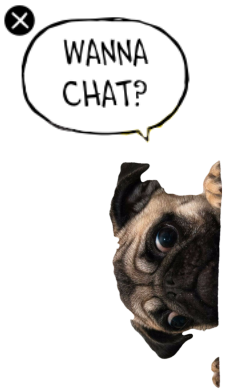
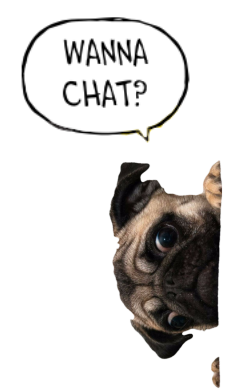
Hide pug helper

Changed region(s): [[0.0, 0.0, 0.1477, 0.0923]]

diff --git a/DogBirthday/Content/Site.css b/DogBirthday/Content/Site.css
@@ -283,6 +283,14 @@ div .background-paragraph {
     z-index: 1;
 }
 
+#pug-helper-disappear {
+    position: fixed;
+    right: 67px;
+    margin-top: 61px;
+    z-index: 1;
+    width: 0.9%;
+}
+
 /*chat box*/
 #chatBox {
     display: none;
